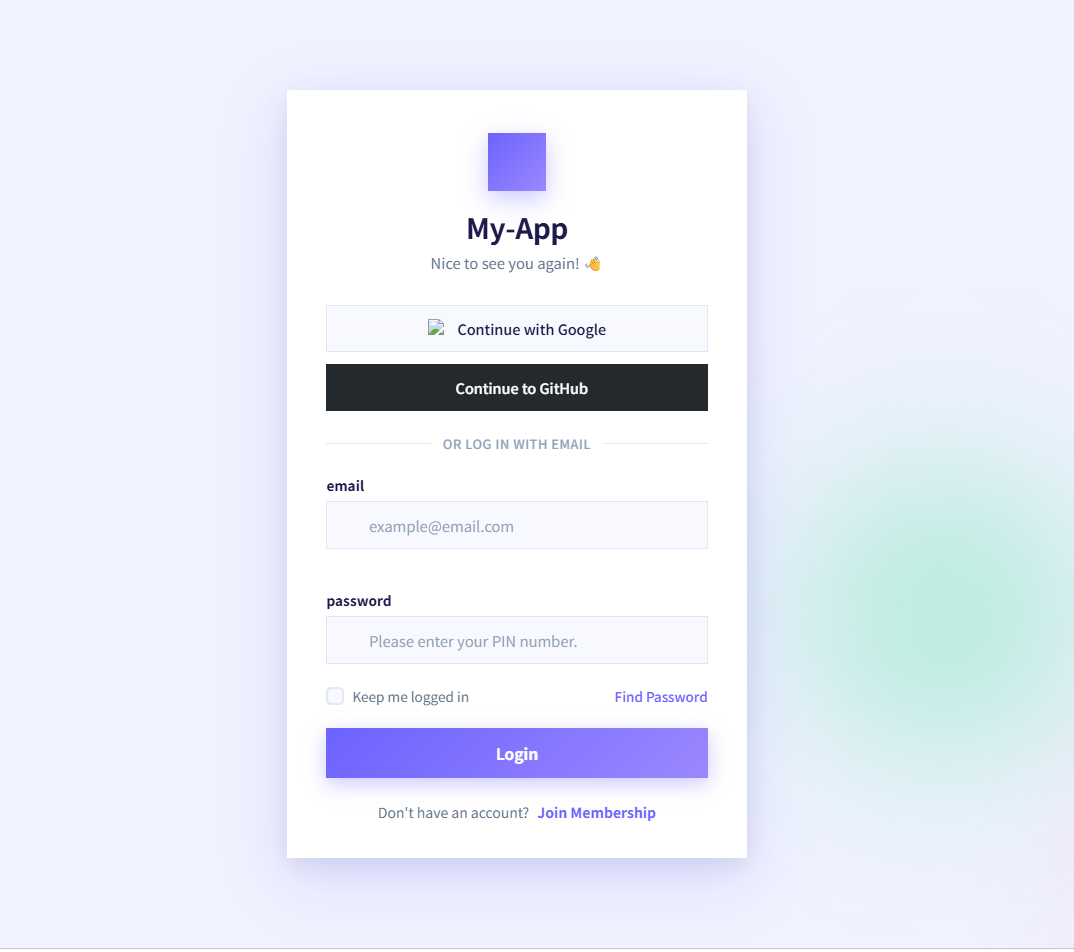
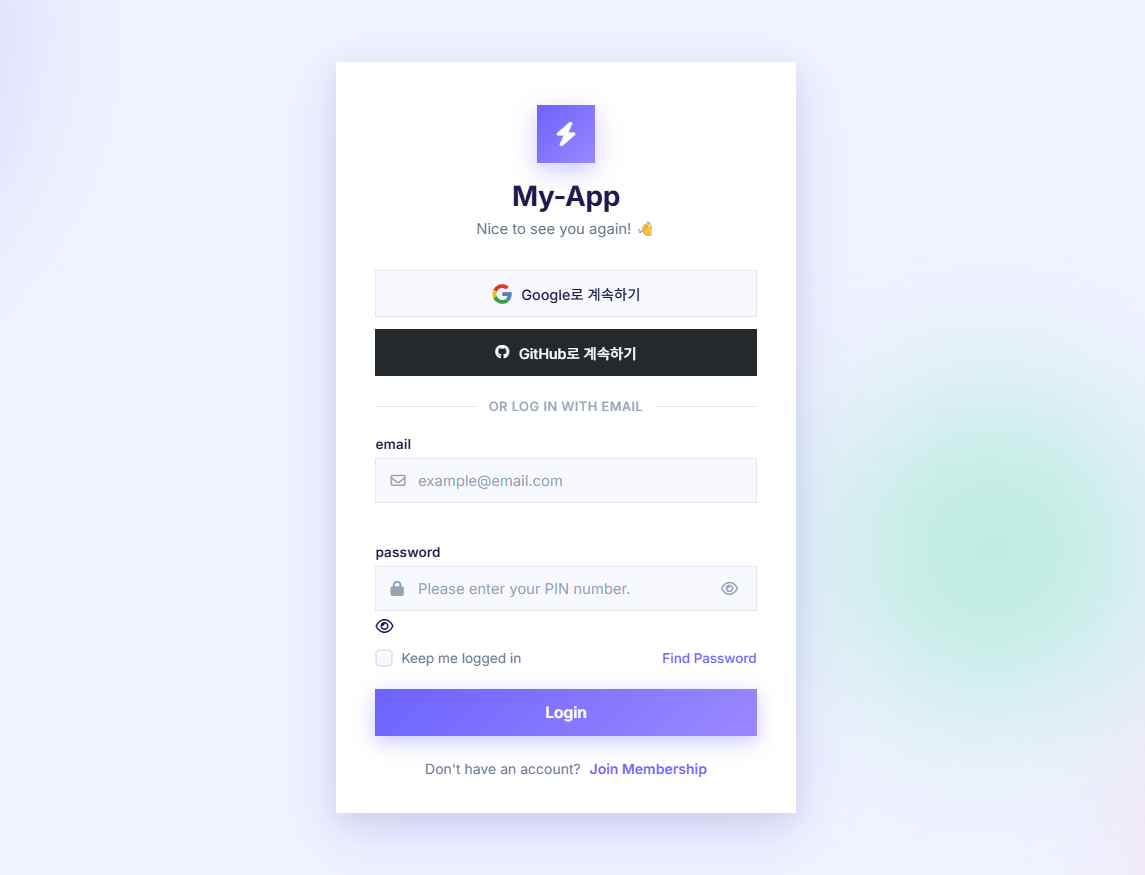
20260908
20260908

Changed region(s): [[0.2765, 0.0926, 0.7067, 0.9566], [0.3994, 0.4629, 0.5531, 0.4937], [0.6145, 0.648, 0.6453, 0.6789]]

diff --git a/01-genspark-web-study/projects/login-page/v2.0/index.html b/01-genspark-web-study/projects/login-page/v2.0/index.html
@@ -85,12 +85,8 @@
                 
                 <!-- Tab: Log In / Sign Up -->
                 <div class="tab-group" role="tablist">
-                    <a href="./index.html" class="tab active">
-                        Log In
-                    </a>
-                    <a href="./signup.html" class="tab">
-                        Sign Up
-                    </a>
+                    <button class="tab active" id="tab-login" role="tab" aria-selected="true">로그인</button>
+                    <button class="tab" id="tab-signup" role="tab" aria-selected="false">회원가입</button>
                     <span class="tab-indicator"></span>
                 </div>
 
@@ -104,7 +100,7 @@
                         <label for="email">Email address</label>
                         <div class="input-box">
                             <i class="fa-regular fa-envelope"></i>
-                            <input id="email" placeholder="you@example.com" autocomplete="email" required/>
+                             <input id="email" type="email" placeholder="you@example.com" autocomplete="email" required />
                         </div>
                         <span class="err-msg" id="err-email"></span>
                     </div>
@@ -113,13 +109,12 @@
                     <div class="field" id="f-pass">
                         <div class="label-row">
                             <label for="password">Password</label>
-                            <a href="#" class="forgot" id="link-forgot">It slipped my mind.</a>
+                            <a href="#" class="forgot" id="link-forgot">잊어버렸어요</a>
                         </div>
                         <div class="input-box">
                             <i class="fa-solid fa-lock"></i>
-                            <input id="password" type="password" placeholder="••••••••"
-                                autocomplete="current-password" required/>
-                            <button type="button" class="eye-btn" id="eye-btn" aria-label="Show password">
+                            <input id="password" type="password" placeholder="••••••••" autocomplete="current-password" required/>
+                            <button type="button" class="eye-btn" id="eye-btn" aria-label="비밀번호 표시">
                                 <i class="fa-regular fa-eye" id="eye-ic"></i>
                             </button>
                         </div>
@@ -130,7 +125,7 @@
                     <label class="check-label">
                         <input type="checkbox" id="remember"/>
                         <span class="check-box"></span>
-                        Log in on this device
+                        이 기기에서 로그인 유지
                     </label>
 
                     <!-- Submission -->
@@ -163,6 +158,71 @@
                             Naver
                         </button>
                     </div>
+                </form>
+
+                <!-- ─── 회원가입 폼 ─── -->
+                <form id="form-signup" class="auth-form hidden" novalidate>
+                    <h1 class="form-title">처음 오셨군요! <span class="wave">🎉</span></h1>
+                    <p class="form-desc">몇 가지 정보만 입력하면 바로 시작할 수 있어요.</p>
+
+                     <!-- 이름 -->
+                    <div class="field" id="f-name">
+                        <label for="username">이름</label>
+                        <div class="input-box">
+                            <i class="fa-regular fa-user"></i>
+                            <input id="username" type="text" placeholder="홍길동" autocomplete="name" required />
+                        </div>
+                        <span class="err-msg" id="err-name"></span>
+                    </div>
+
+                    <!-- 이메일 (회원가입) -->
+                    <div class="field" id="f-su-email">
+                        <label for="su-email">이메일 주소</label>
+                        <div class="input-box">
+                            <i class="fa-regular fa-envelope"></i>
+                            <input id="su-email" type="email" placeholder="you@example.com" autocomplete="email" required />
+                        </div>
+                        <span class="err-msg" id="err-su-email"></span>
+                    </div>
+
+                    <!-- 비밀번호 (회원가입) -->
+                    <div class="field" id="f-su-pass">
+                        <label for="su-pass">비밀번호</label>
+                        <div class="input-box">
+                            <i class="fa-solid fa-lock"></i>
+                            <input id="su-pass" type="password" placeholder="8자 이상 입력" required />
+                            <button type="button" class="eye-btn" id="eye-btn2" aria-label="비밀번호 표시">
+                                <i class="fa-regular fa-eye" id="eye-ic2"></i>
+                            </button>
+                        </div>
+
+                        <!-- 비밀번호 강도 바 -->
+                        <div class="strength-wrap">
+                            <div class="strength-bar">
+                                <span class="sb" id="sb1"></span>
+                                <span class="sb" id="sb2"></span>
+                                <span class="sb" id="sb3"></span>
+                                <span class="sb" id="sb4"></span>
+                            </div>
+                            <span class="strength-label" id="strength-label">강도 없음</span>
+                        </div>
+                        <span class="err-msg" id="err-su-pass"></span>
+                    </div>
+
+                    <!-- 약관 동의 -->
+                    <label class="check-label">
+                        <input type="checkbox" id="agree" />
+                        <span class="check-box"></span>
+                        <span><a href="#" class="inline-link">이용약관</a> 및 <a href="#" class="inline-link">개인정보처리방침</a>에 동의합니다.</span>
+                    </label>
+
+                    <button type="submit" class="btn-main" id="btn-signup">
+                        <span class="btn-label">계정 만들기</span>
+                        <i class="fa-solid fa-arrow-right btn-arrow"></i>
+                        <span class="btn-loader" id="loader2"><i class="fa-solid fa-circle-notch fa-spin"></i></span>
+                    </button>
+
+                    <div class="alert-banner" id="alert-signup"></div>
                 </form>
             </section>
 

diff --git a/01-genspark-web-study/projects/login-page/v2.0/main.js b/01-genspark-web-study/projects/login-page/v2.0/main.js
@@ -129,10 +129,7 @@ function checkStrength(val) {
 
 
 /* -- Submit Login Form -- */
-const loginForm = document.getElementById('form-login');
-
-if (loginForm) {
-  loginForm.addEventListener('submit', async e => {
+document.getElementById('form-login').addEventListener('submit', async e => {
   e.preventDefault();
   const emailVal = document.getElementById('email').value.trim();
   const passVal  = document.getElementById('password').value;
@@ -170,15 +167,11 @@ if (loginForm) {
     setLoading('btn-login', false);
   }
  });
-}
 
 
 
 /* -- Submit Membership Form -- */
-const signupForm = document.getElementById('form-signup');
-
-if (signupForm) {
-  signupForm.addEventListener('submit', async e => {
+document.getElementById('form-signup').addEventListener('submit', async e => {
   e.preventDefault();
   const nameVal  = document.getElementById('username').value.trim();
   const emailVal = document.getElementById('su-email').value.trim();
@@ -202,7 +195,6 @@ if (signupForm) {
   btn.querySelector('.btn-loader').style.display = 'none';
   btn.querySelector('.btn-label').style.display  = 'flex';
 });
-}
 
 
 

diff --git a/01-genspark-web-study/projects/login-page/v2.0/signup.html b/01-genspark-web-study/projects/login-page/v2.0/signup.html
@@ -1,19 +1,12 @@
 <!DOCTYPE html>
 <html lang="en">
-
 <head>
     <meta charset="UTF-8"/>
     <meta name="viewport" content="width=device-width, initial-scale=1.0"/>
-
-    <title>Sign Up · My-App · v2</title>
-
+    <title>login-page·My-App·v2</title>
     <link href="https://fonts.googleapis.com/css2?family=Pretendard:wght@300;400;500;600;700;800&display=swap" rel="stylesheet"/>
-
     <link href="https://fonts.googleapis.com/css2?family=Space+Grotesk:wght@500;600;700&display=swap" rel="stylesheet"/>
-
-    <link rel="stylesheet"
-          href="https://cdn.jsdelivr.net/npm/@fortawesome/fontawesome-free@6.4.0/css/all.min.css"/>
-
+    <link rel="stylesheet" href="https://cdn.jsdelivr.net/npm/@fortawesome/fontawesome-free@6.4.0/css/all.min.css"/>
     <link rel="stylesheet" href="./style.css"/>
 </head>
 
